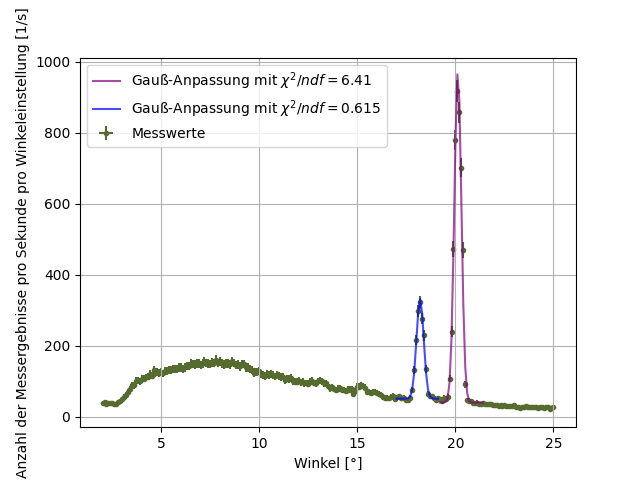
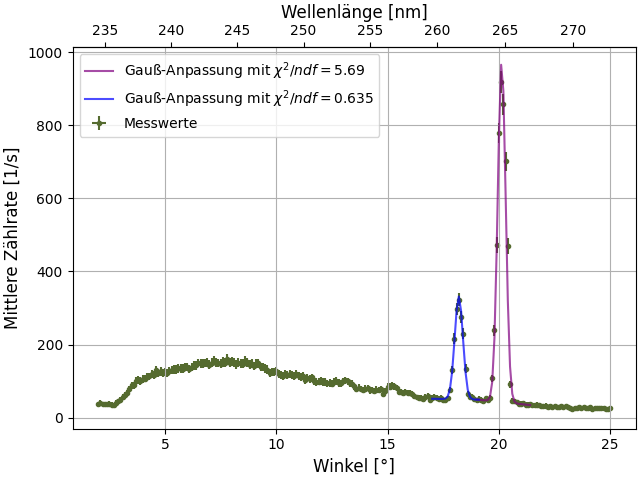
modified:   428/Gitter.py 	modified:   428/NaCl281.97.png

diff --git a/428/Gitter.py b/428/Gitter.py
@@ -4,8 +4,10 @@ import matplotlib.pyplot as plt
 import os
 import scipy.odr as odr
 
+fig, ax = plt.subplots(layout='constrained')
+
 def gauss(Para, x):
-    return Para[0] /(Para[2]*np.sqrt(2*np.pi))*np.exp(-0.5*((x - Para[1])/Para[2])**2) + Para[3]
+    return Para[0] /(Para[2]*np.sqrt(2*np.pi))*np.exp(-0.5*((x - Para[1])/Para[2])**2) + Para[3]*x + Para[4]
 
 def gausfit(func, x, y, farbe, beta):
 
@@ -22,6 +24,11 @@ def gausfit(func, x, y, farbe, beta):
     plt.plot(x, fy, c=farbe,label = f'Gauß-Anpassung mit $\chi^2/ndf = {chi2/ndf:.3g} $', alpha=0.7)
     return out
 
+def Ang2nm(x):
+    return 2*281.97*np.sin(x/2)
+
+def nm2Ang(x):
+    return 2*np.arcsin(x/(2*281.97))
 
 path = os.path.dirname(os.path.abspath(__file__))
 data = pd.read_csv(f'{path}\\DatenD1\\NaCl281.97.txt', sep="\t", header=0, names=['b', 'R'], dtype=str)
@@ -36,14 +43,16 @@ yData = data['R'].values
 xP1 = xData[150:172]
 yP1 = yData[150:172]
 
-xP2 = xData[172:195]
-yP2 = yData[172:195]
+xP2 = xData[170:195]
+yP2 = yData[170:195]
 
 plt.errorbar(xData, yData,xerr=0, yerr=np.sqrt(yData), color='darkolivegreen', label='Messwerte', marker='.', zorder=1, linestyle='None')
-gausfit(gauss, xP2, yP2, 'purple', [426, 20, 0.18, 36.5])
-gausfit(gauss, xP1, yP1, 'blue', [200, 18.25, 0.3, 36.5])
-plt.ylabel('Anzahl der Messergebnisse pro Sekunde pro Winkeleinstellung [1/s]')
-plt.xlabel('Winkel [°]')
+gausfit(gauss, xP2, yP2, 'purple', [426, 20, 0.18, 0, 36.5])
+gausfit(gauss, xP1, yP1, 'blue', [200, 18.25, 0.3, 0, 36.5])
+plt.ylabel('Mittlere Zählrate [1/s]', fontsize=12)
+plt.xlabel('Winkel [°]', fontsize=12)
+secax = ax.secondary_xaxis('top', functions=(Ang2nm, nm2Ang))
+secax.set_xlabel('Wellenlänge [nm]', fontsize=12)
 plt.legend()
 plt.grid()
 plt.savefig(f'{path}\\NaCl281.97.png')
